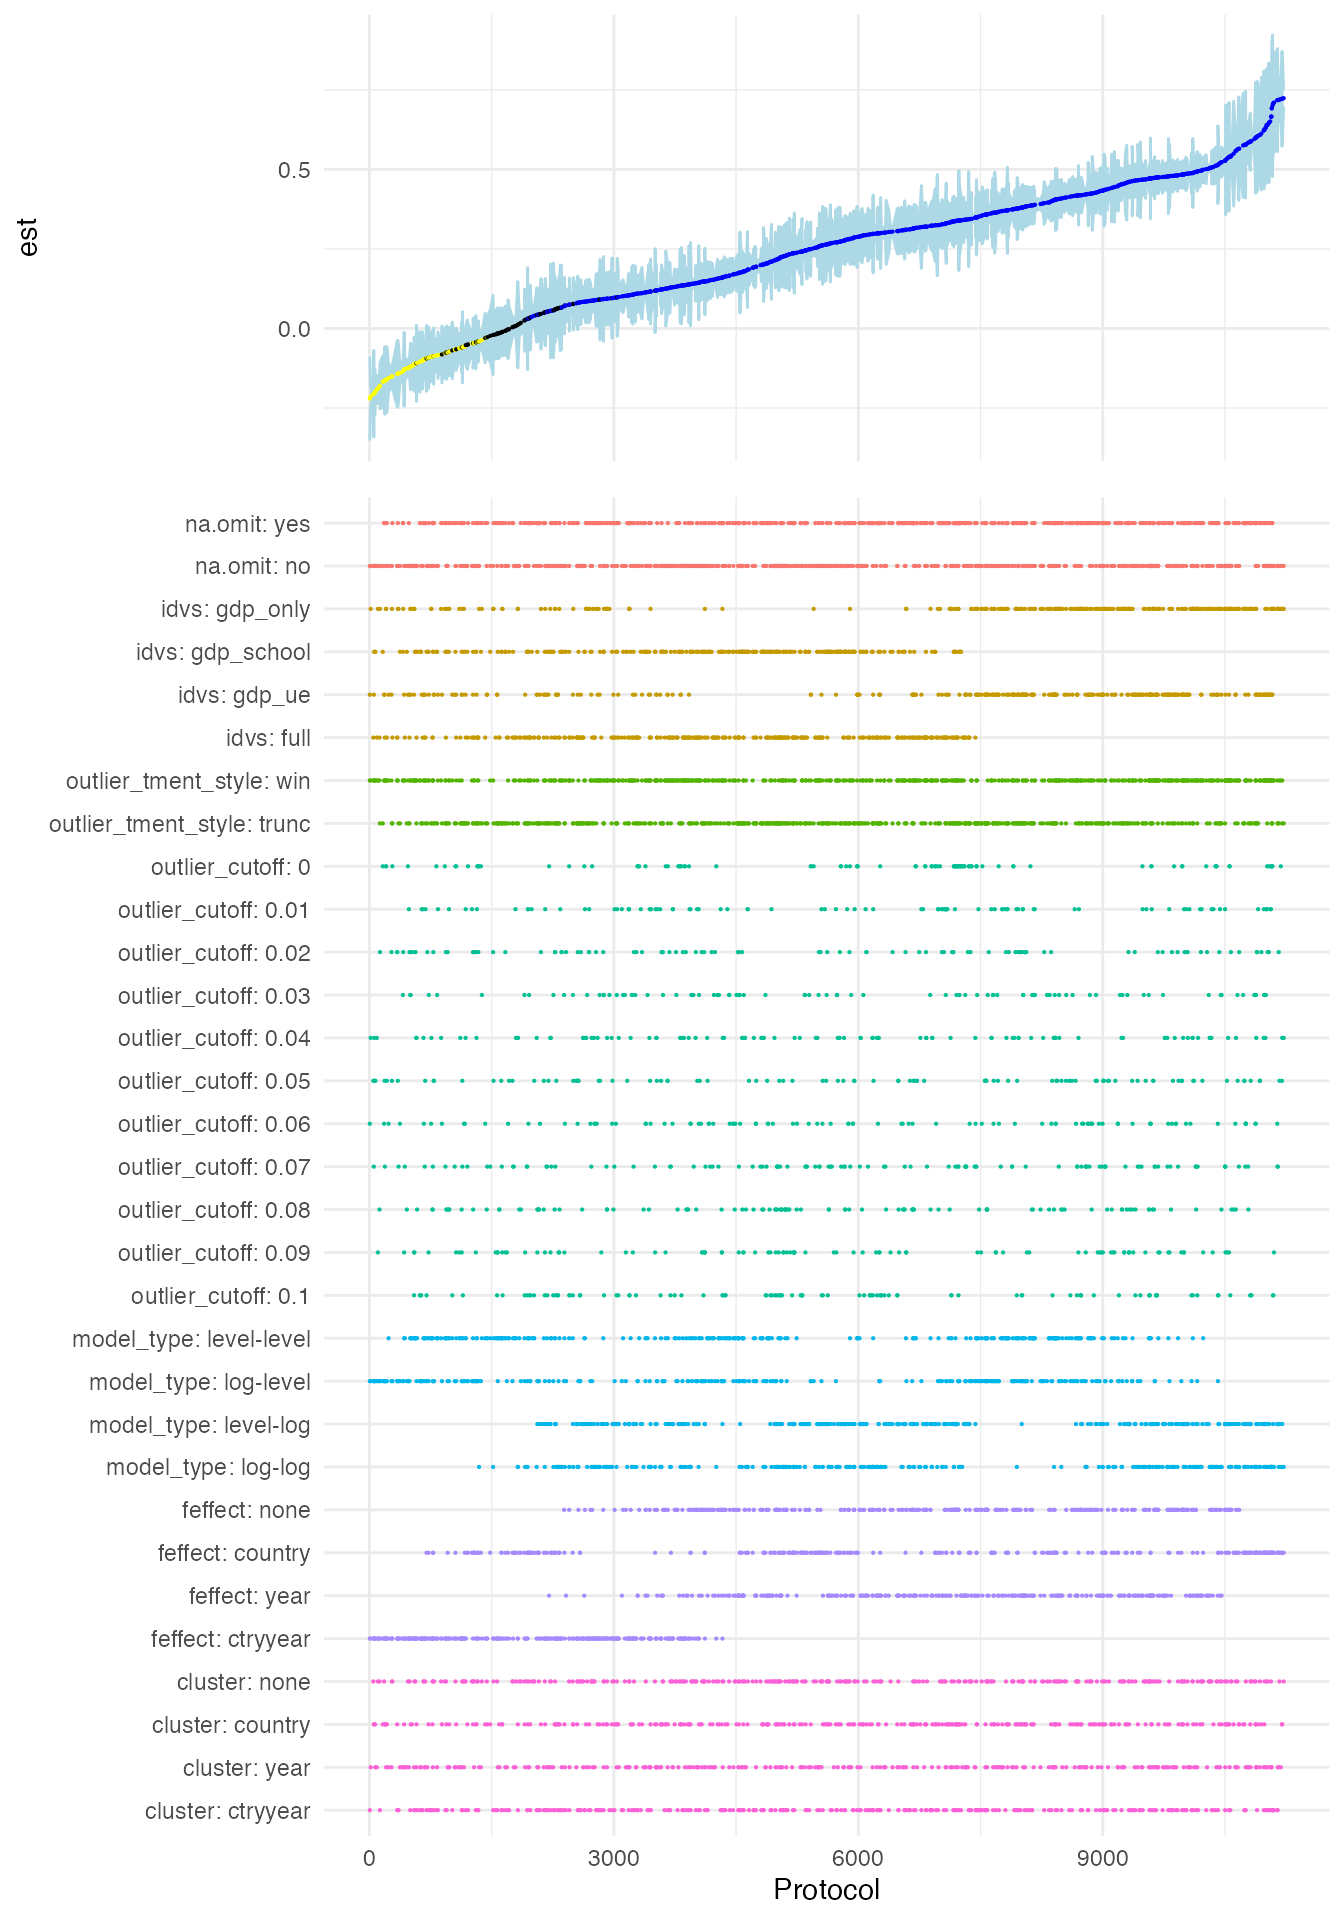
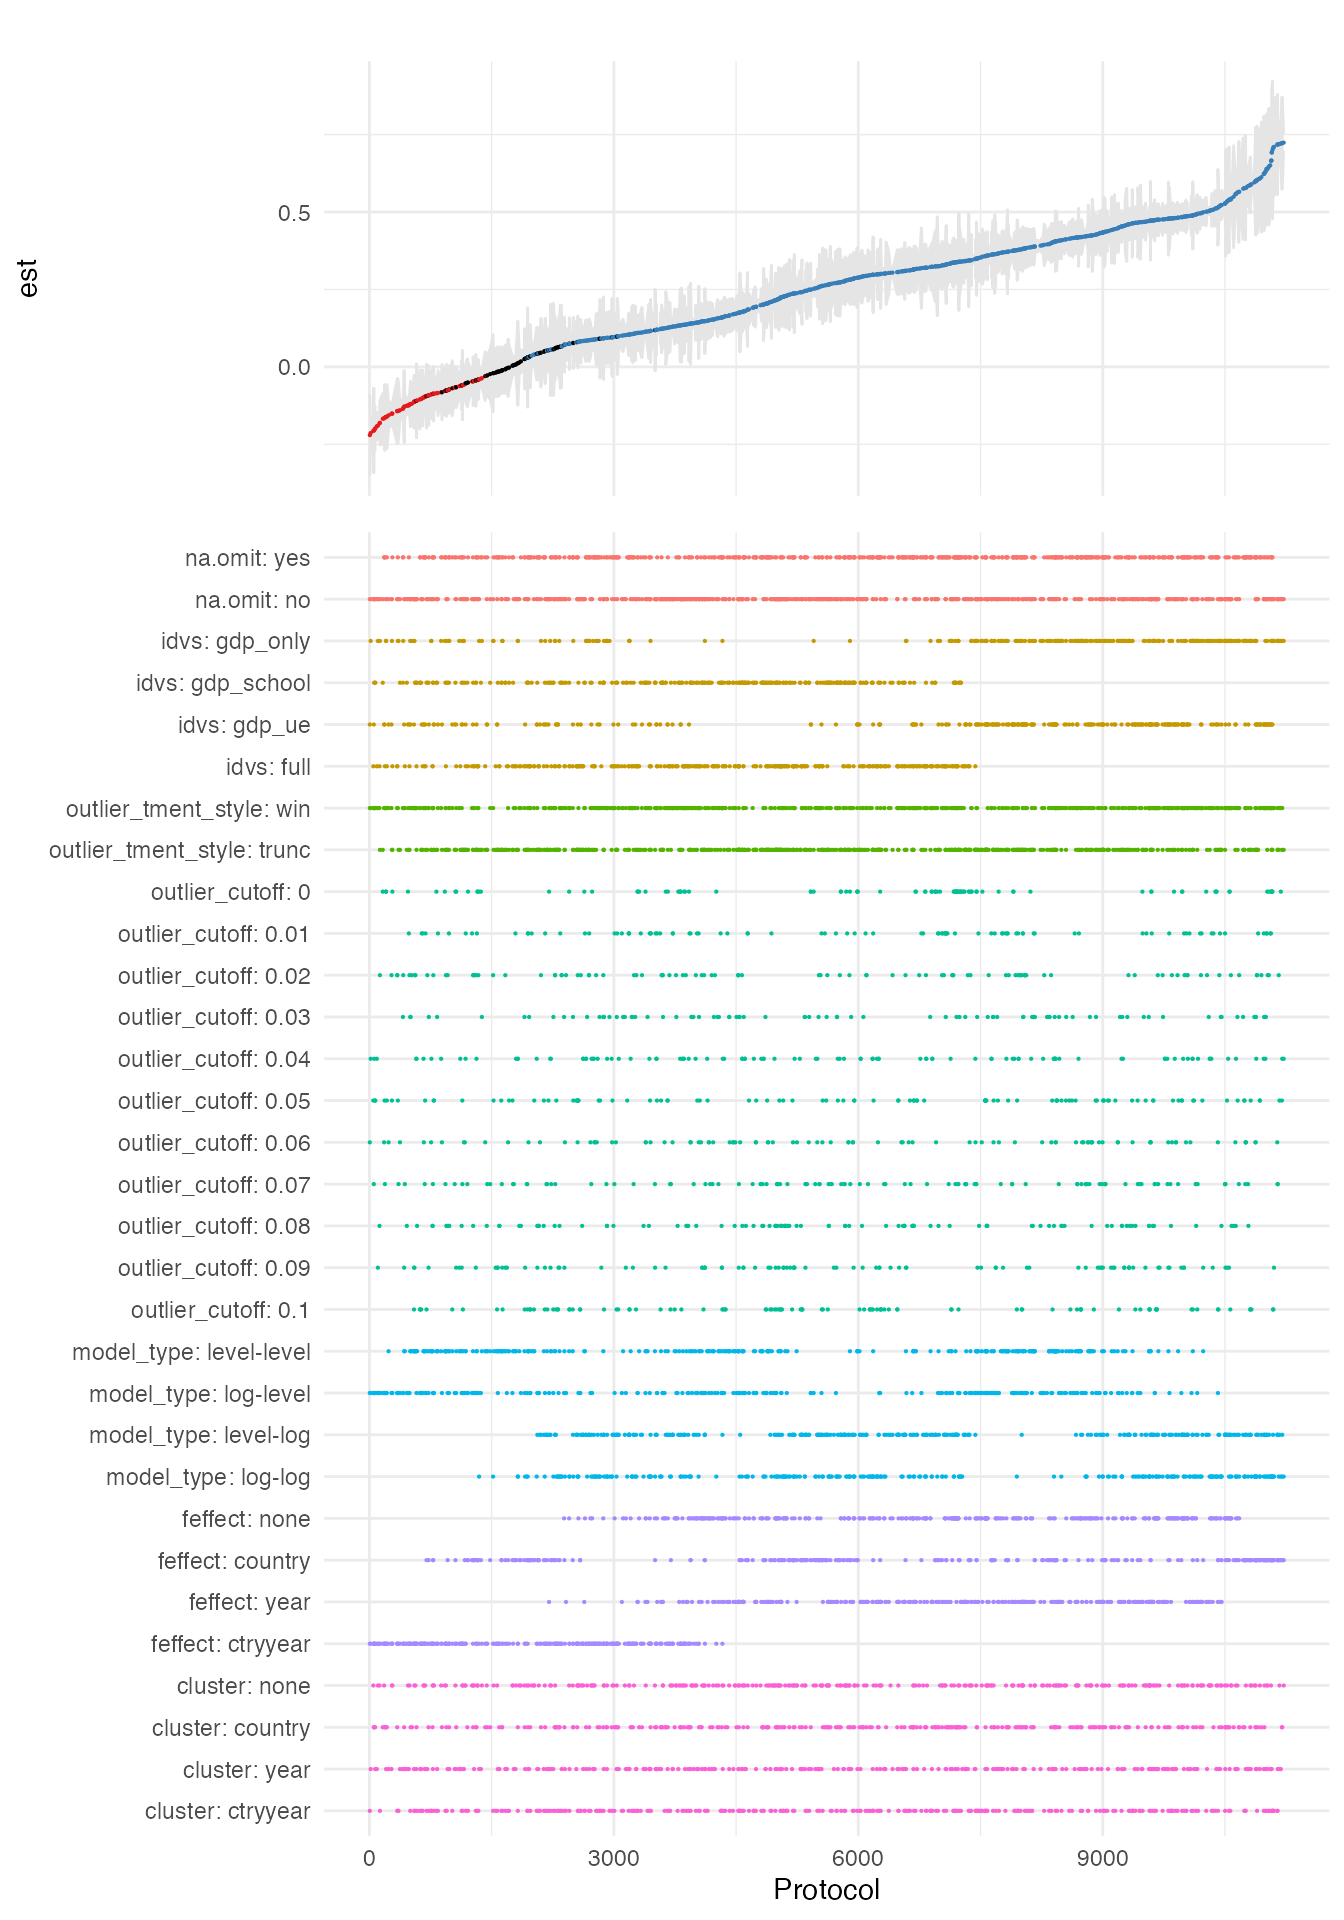
tweaking of plot_rdf_spec_curve()

diff --git a/docs/reference/plot_rdf_spec_curve.html b/docs/reference/plot_rdf_spec_curve.html
@@ -80,16 +80,20 @@ freedom by plotting its specification curve as introduced by
 <span>  ub <span class="op">=</span> <span class="st">""</span>,</span>
 <span>  sample_frac <span class="op">=</span> <span class="fl">1</span>,</span>
 <span>  est_label <span class="op">=</span> <span class="va">est</span>,</span>
+<span>  title <span class="op">=</span> <span class="st">""</span>,</span>
 <span>  est_color <span class="op">=</span> <span class="st">"black"</span>,</span>
-<span>  est_color_signeg <span class="op">=</span> <span class="st">"yellow"</span>,</span>
-<span>  est_color_sigpos <span class="op">=</span> <span class="st">"blue"</span>,</span>
+<span>  est_color_signeg <span class="op">=</span> <span class="st">"#E41A1C"</span>,</span>
+<span>  est_color_sigpos <span class="op">=</span> <span class="st">"#377EB8"</span>,</span>
+<span>  line_color <span class="op">=</span> <span class="st">"black"</span>,</span>
 <span>  ribbon <span class="op">=</span> <span class="fu"><a href="https://rdrr.io/r/base/nrow.html" class="external-link">nrow</a></span><span class="op">(</span><span class="va">ests</span><span class="op">)</span> <span class="op">&gt;</span> <span class="fl">30</span>,</span>
-<span>  ribbon_color <span class="op">=</span> <span class="fu"><a href="https://rdrr.io/r/base/ifelse.html" class="external-link">ifelse</a></span><span class="op">(</span><span class="fu"><a href="https://rdrr.io/r/base/nrow.html" class="external-link">nrow</a></span><span class="op">(</span><span class="va">ests</span><span class="op">)</span> <span class="op">&gt;</span> <span class="fl">30</span>, <span class="st">"lightblue"</span>, <span class="st">"black"</span><span class="op">)</span>,</span>
+<span>  ribbon_color <span class="op">=</span> <span class="st">"gray90"</span>,</span>
 <span>  choice_ind_point <span class="op">=</span> <span class="cn">TRUE</span>,</span>
 <span>  pt_size <span class="op">=</span> <span class="fl">0.1</span>,</span>
 <span>  lower_to_upper <span class="op">=</span> <span class="fl">3</span>,</span>
 <span>  highlight <span class="op">=</span> <span class="cn">NULL</span>,</span>
-<span>  pt_size_highlight <span class="op">=</span> <span class="fl">3</span></span>
+<span>  pt_size_highlight <span class="op">=</span> <span class="fl">3</span>,</span>
+<span>  addon_sc <span class="op">=</span> <span class="cn">NULL</span>,</span>
+<span>  addon_dc <span class="op">=</span> <span class="cn">NULL</span></span>
 <span><span class="op">)</span></span></code></pre></div>
     </div>
 
@@ -125,6 +129,10 @@ time and makes the plot less clutered.</p></dd>
 <code>est</code>.</p></dd>
 
 
+<dt>title</dt>
+<dd><p>A title for the plot</p></dd>
+
+
 <dt>est_color</dt>
 <dd><p>Color of estimates points for specification curve</p></dd>
 
@@ -137,17 +145,21 @@ time and makes the plot less clutered.</p></dd>
 <dd><p>Color of significantly positive estimates.</p></dd>
 
 
+<dt>line_color</dt>
+<dd><p>Color of confidence interval lines (only used when
+<code>lb</code> and <code>ub</code> are present).</p></dd>
+
+
 <dt>ribbon</dt>
 <dd><p>If TRUE a ribbon displaying the confidence interval is being
 plotted. If FALSE, lines are printed instead (looks nicer if you have only
-few degrees of freedom to plot). <code>ribbon_color</code> applies
-in either case (only used when <code>lb</code> and
+few degrees of freedom to plot) (only used when <code>lb</code> and
 <code>ub</code> are present).</p></dd>
 
 
 <dt>ribbon_color</dt>
-<dd><p>Color of the confidence interval (only used when <code>lb</code> and
-<code>ub</code> are present).</p></dd>
+<dd><p>Color of the confidence interval (only used when
+<code>lb</code> and <code>ub</code> are present).</p></dd>
 
 
 <dt>choice_ind_point</dt>
@@ -166,8 +178,8 @@ the specification curve itself.</p></dd>
 
 
 <dt>highlight</dt>
-<dd><p><code>NULL</code> or, if you want to highlight certain protocols by
-their point size, a data frame containing the choices that identify the
+<dd><p><code>NULL</code> or, if you want to highlight certain protocols
+by their point size, a data frame containing the choices that identify the
 protocols.</p></dd>
 
 
@@ -175,12 +187,20 @@ protocols.</p></dd>
 <dd><p>Point plot size for highlighted estimates and
 choice indicators.</p></dd>
 
+
+<dt>addon_sc</dt>
+<dd><p>ggplot objects to add to the the specification curve panel.</p></dd>
+
+
+<dt>addon_dc</dt>
+<dd><p>ggplot objects to add to the the design choice panel.</p></dd>
+
 </dl></div>
     <div class="section level2">
     <h2 id="value">Value<a class="anchor" aria-label="anchor" href="#value"></a></h2>
     
 
-<p>A ggplot object.</p>
+<p>Nothing. Instead the assembled grob is directly drawn.</p>
     </div>
     <div class="section level2">
     <h2 id="details">Details<a class="anchor" aria-label="anchor" href="#details"></a></h2>
